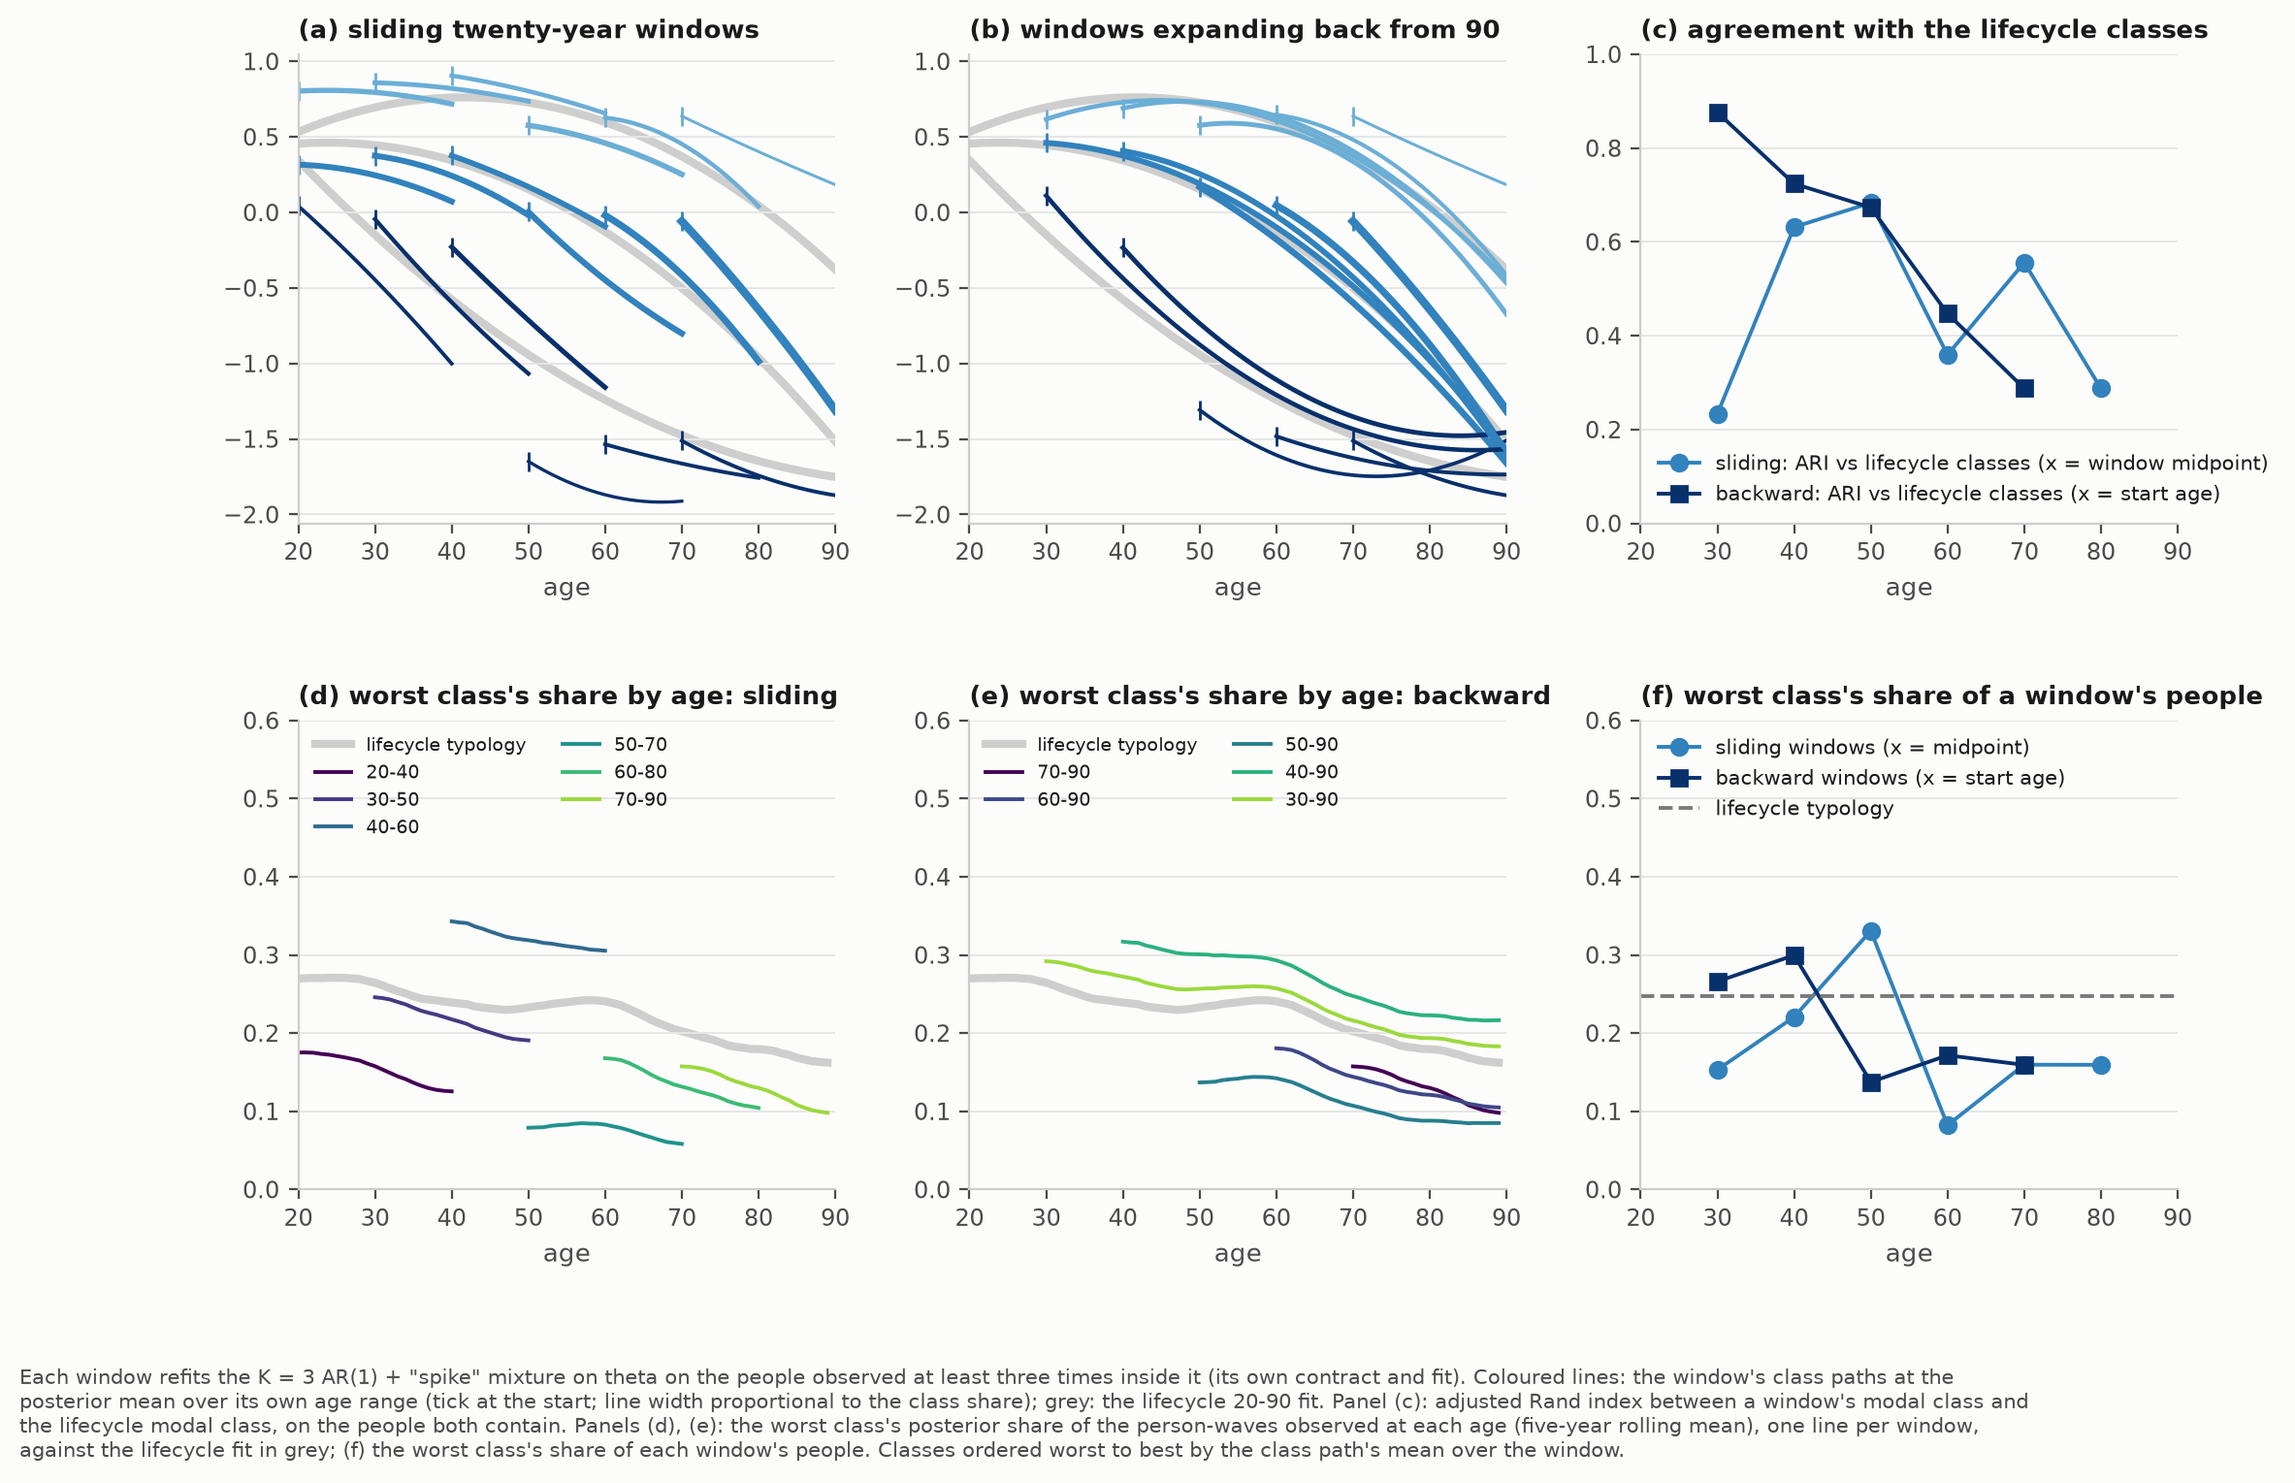
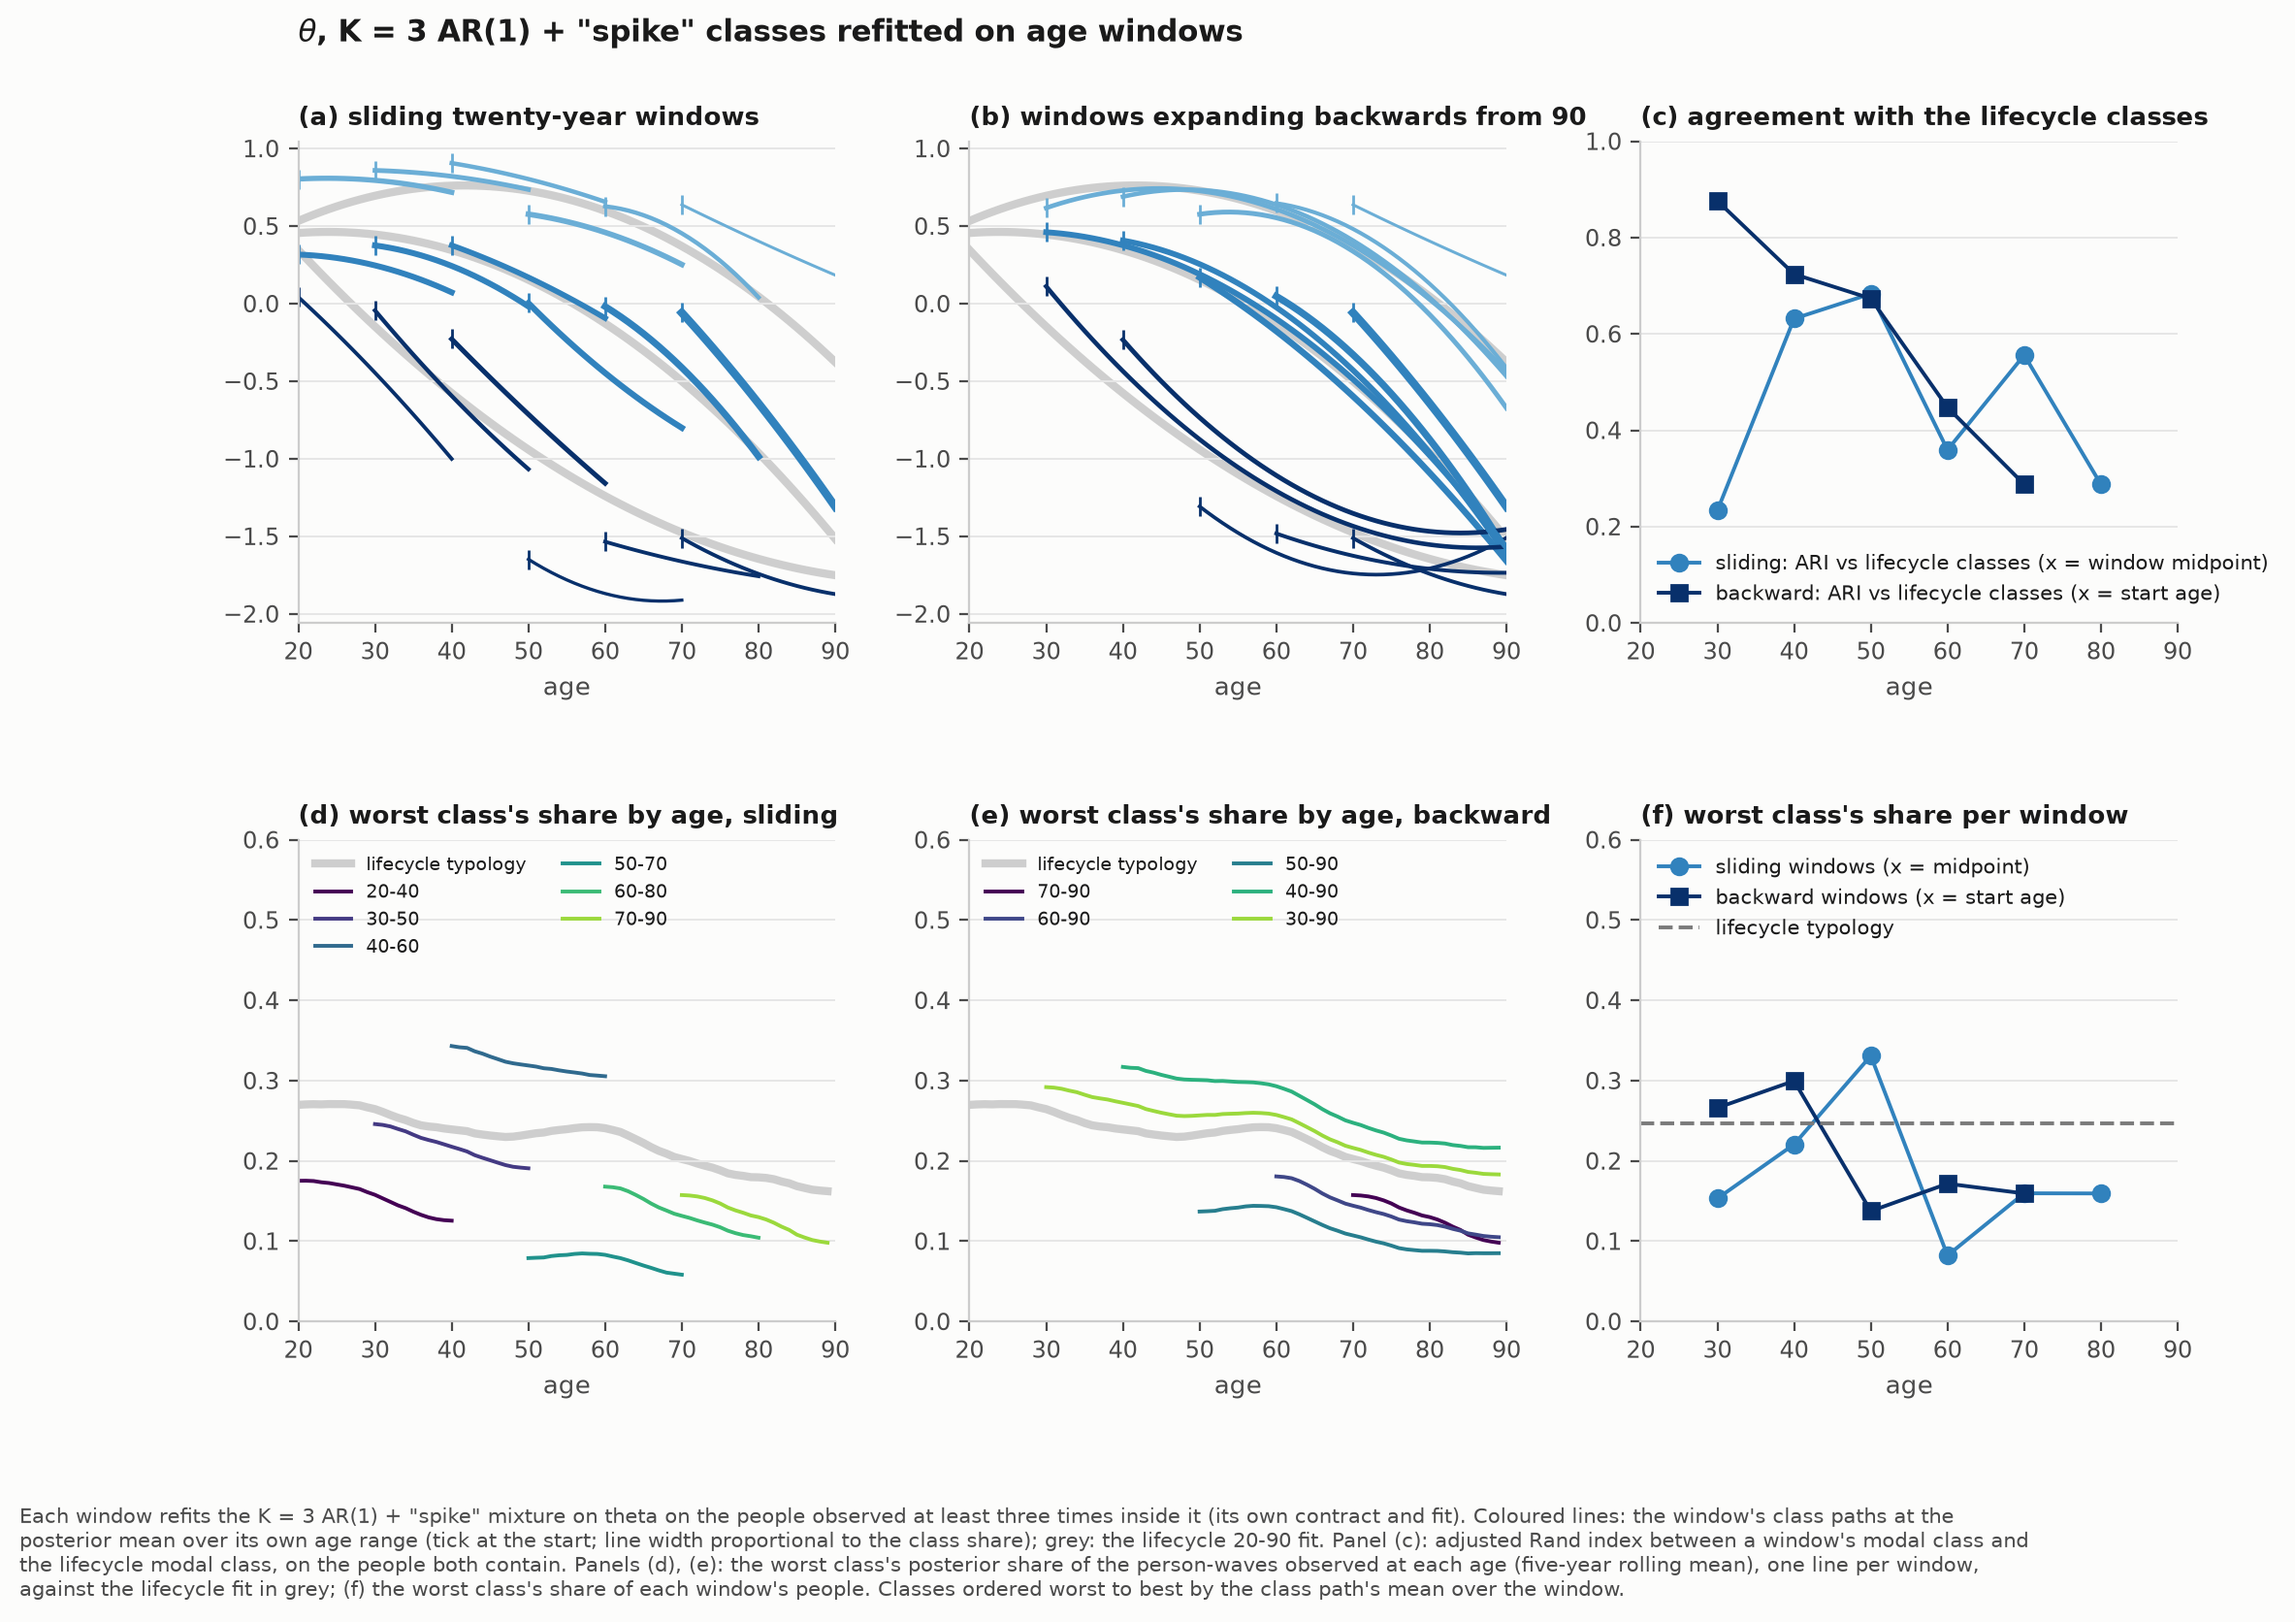
Windows figure: overall title, shorter panel titles

diff --git a/descriptives/50_paper_windows_bayes.py b/descriptives/50_paper_windows_bayes.py
@@ -70,7 +70,8 @@ def main() -> int:
     fits = {w: (full if w == (MIN_AGE, MAX_AGE) else window_fit(*w)) for w in dict.fromkeys(SLIDING + BACKWARD)}
     for w, f in fits.items():
         print(f"{w[0]}-{w[1]}: {f['n']:,} people, rhat {f['rhat']:.3f}, shares {np.round(f['share'], 3)}, rho {np.round(f['rho'], 2)}, wall {f['wall']}")
-    fig, axes = plt.subplots(2, 3, figsize=(12.5, 7.6), gridspec_kw={"wspace": 0.25, "hspace": 0.42}, squeeze=False)
+    fig, axes = plt.subplots(2, 3, figsize=(12.5, 7.9), gridspec_kw={"wspace": 0.25, "hspace": 0.45}, squeeze=False)
+    fig.suptitle("$\\theta$, K = 3 AR(1) + \"spike\" classes refitted on age windows", x=0.125, ha="left", fontsize=11, fontweight="bold", y=0.96)
     cmap = plt.get_cmap("viridis")
     rows = []
     for col, (wins, name) in enumerate([(SLIDING, "sliding twenty-year windows"), (BACKWARD, "windows expanding backwards from 90")]):
@@ -91,7 +92,7 @@ def main() -> int:
                          "same_vs_full": float((modal.loc[both] == full_modal.loc[both]).mean()),
                          "worst_share": float(f["share"][0]), "worst_modal_share": float((modal == 0).mean()), "rhat": f["rhat"],
                          "rho_worst": f["rho"][0], "rho_mid": f["rho"][1], "rho_best": f["rho"][2]})
-        ax.set_title(f"({'ab'[col]}) {'sliding twenty-year windows' if col == 0 else 'windows expanding back from 90'}", loc="left", fontsize=9.5)
+        ax.set_title(f"({'ab'[col]}) {'sliding twenty-year windows' if col == 0 else 'windows expanding backwards from 90'}", loc="left", fontsize=9.5)
         ax.grid(True, axis="y"); ax.set_xlim(MIN_AGE, MAX_AGE); ax.set_xlabel("age")
     r = pd.DataFrame(rows)
     ax = axes[0, 2]
@@ -109,7 +110,7 @@ def main() -> int:
         for i_w, (lo, hi) in enumerate(wl):
             q = fits[(lo, hi)]["comp"]["class1"].rolling(5, center=True, min_periods=1).mean()
             ax.plot(q.index, q, color=cmap(0.85 * i_w / max(len(wl) - 1, 1)), lw=1.4, zorder=2, label=f"{lo}-{hi}")
-        ax.set_title(f"({'de'[col]}) worst class's share by age: {'sliding' if col == 0 else 'backward'}", loc="left", fontsize=9.5)
+        ax.set_title(f"({'de'[col]}) worst class's share by age, {'sliding' if col == 0 else 'backward'}", loc="left", fontsize=9.5)
         ax.set_ylim(0, 0.6); ax.grid(True, axis="y"); ax.set_xlim(MIN_AGE, MAX_AGE); ax.set_xlabel("age"); ax.legend(fontsize=6.8, ncols=2, loc="upper left")
     ax = axes[1, 2]
     for kind, mk, c in [("sliding", "o", CLUSTER[1]), ("backward", "s", CLUSTER[0])]:
@@ -118,7 +119,7 @@ def main() -> int:
         ax.plot(x, q["worst_share"], marker=mk, color=c, lw=1.4, label=f"{kind} windows" + (" (x = midpoint)" if kind == "sliding" else " (x = start age)"))
     ax.axhline(full["share"][0], color=INK3, lw=1.4, ls="--", label="lifecycle typology")
     ax.set_ylim(0, 0.6); ax.grid(True, axis="y"); ax.set_xlim(MIN_AGE, MAX_AGE)
-    ax.set_title("(f) worst class's share of a window's people", loc="left", fontsize=9.5); ax.legend(loc="upper left", fontsize=7.5); ax.set_xlabel("age")
+    ax.set_title("(f) worst class's share per window", loc="left", fontsize=9.5); ax.legend(loc="upper left", fontsize=7.5); ax.set_xlabel("age")
     share_ylim([axes[0, 0], axes[0, 1]])
     footer = ("Each window refits the K = 3 AR(1) + \"spike\" mixture on theta on the people observed at least three times inside it (its own contract and fit). Coloured lines: the window's class paths at the posterior "
               "mean over its own age range (tick at the start; line width proportional to the class share); grey: the lifecycle 20-90 fit. Panel (c): adjusted Rand index between a window's modal class and the "
